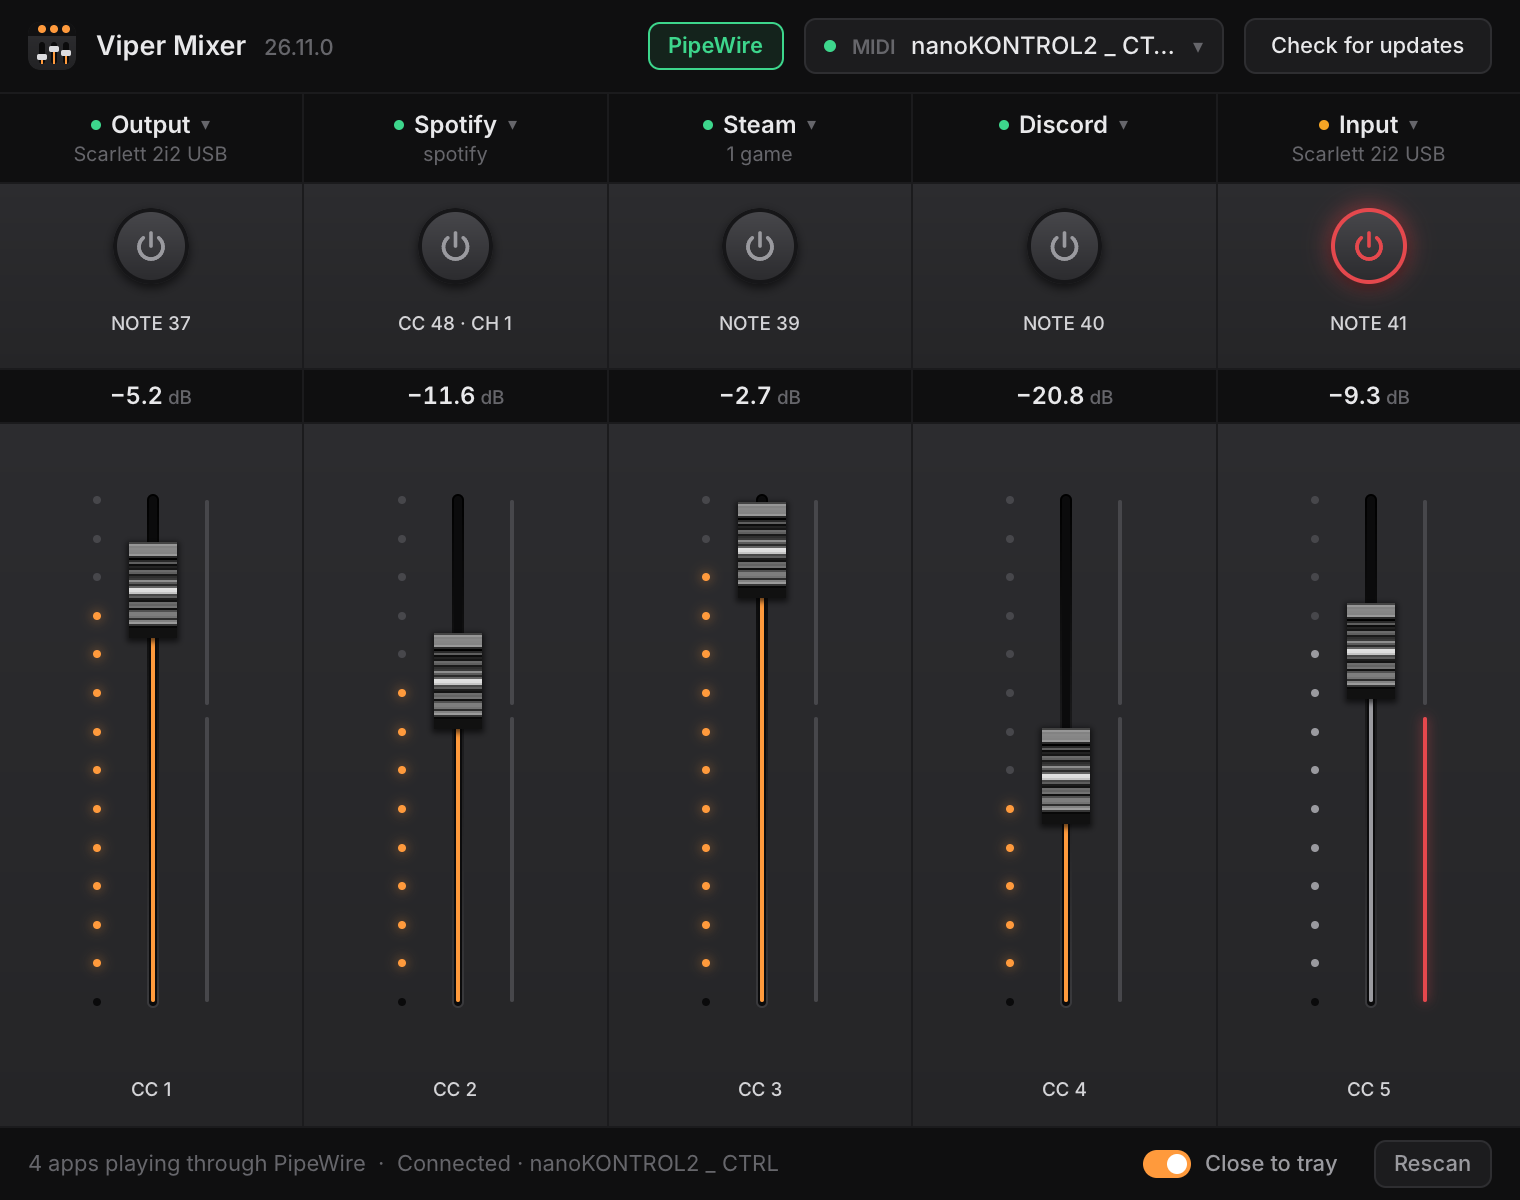
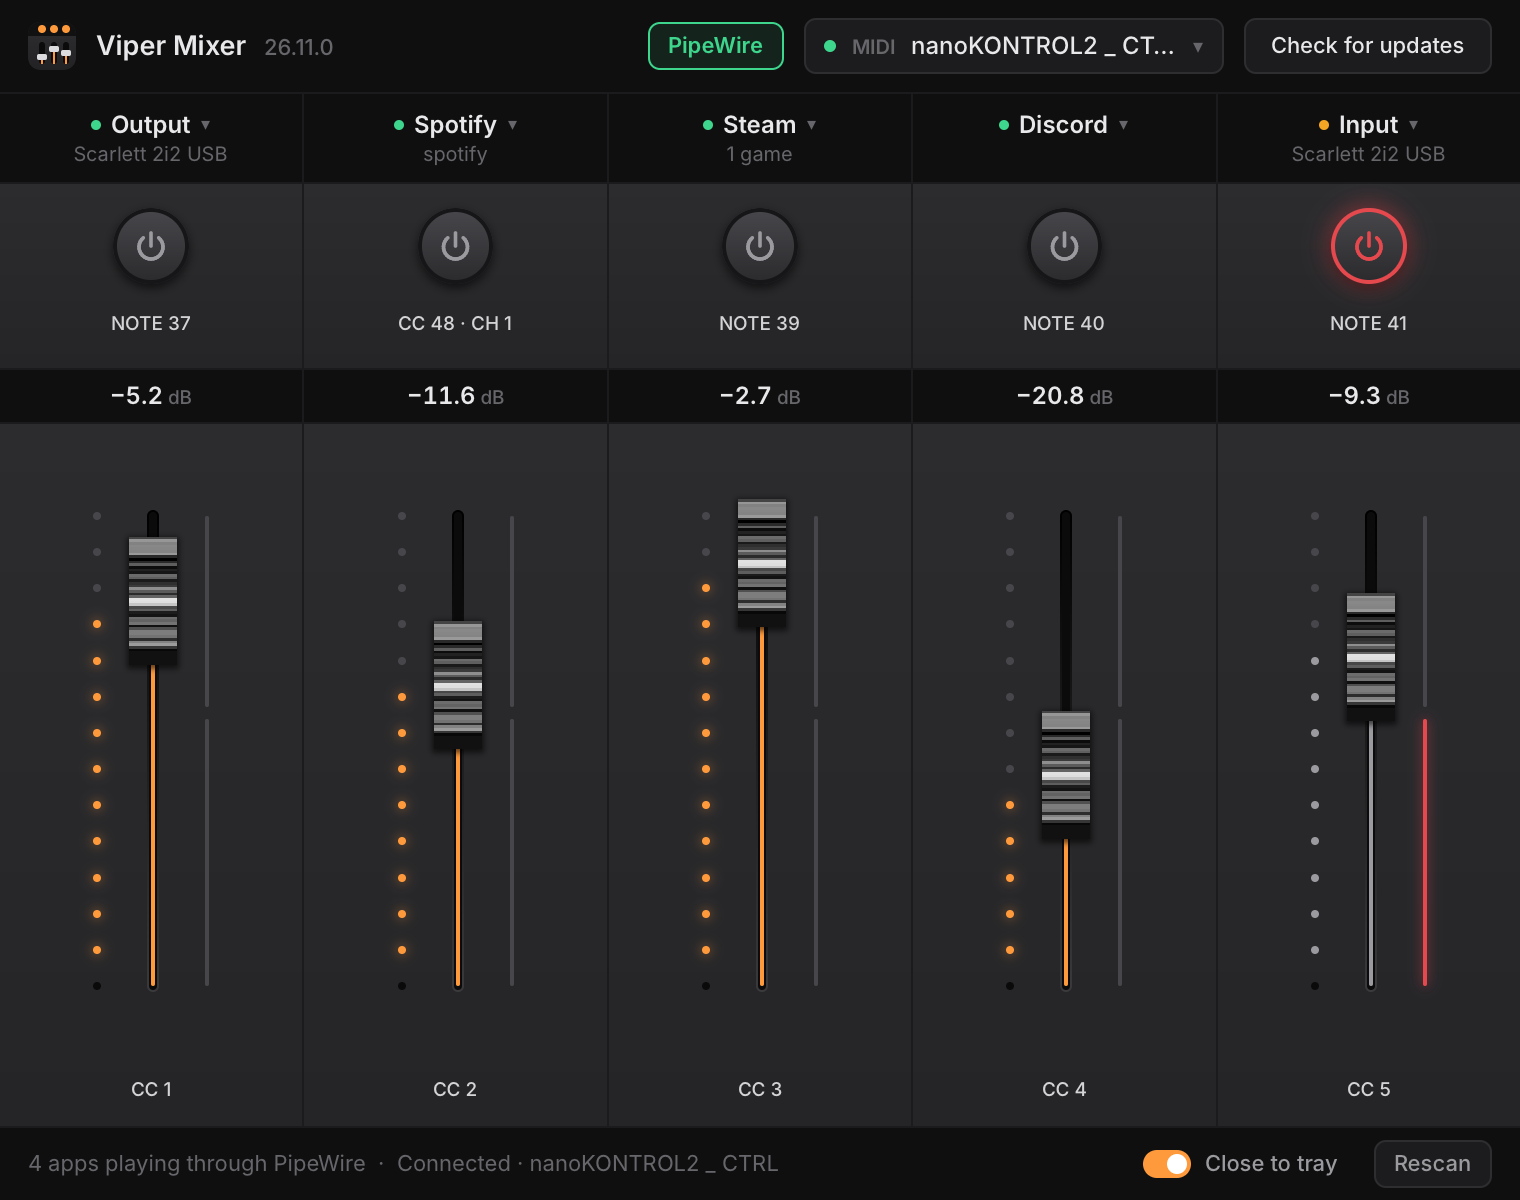
Lengthen the fader caps and light the fader line on drags too
Changelog: none

diff --git a/src/ui.rs b/src/ui.rs
@@ -18,7 +18,7 @@ use std::time::{Duration, Instant};
 /// Space above and below the fader's travel.
 const FADER_PAD: f32 = 4.0;
 const HANDLE_W: f32 = 24.0;
-const HANDLE_H: f32 = 48.0;
+const HANDLE_H: f32 = 64.0;
 const GROOVE_W: f32 = 6.0;
 /// The level lights beside the fader: their size, and roughly how far apart they sit.
 const LED: f32 = 4.0;
@@ -497,9 +497,9 @@ fn level_lights(volume: f32, height: f32, muted: bool) -> El {
     lights
 }
 
-/// A fader cap's rows from top to bottom, one pixel each, taken from the reference console: a
-/// lit top face, fine ribs either side of a white line across the middle, and a black bottom
-/// face. There are `HANDLE_H` of them.
+/// A fader cap's rows from top to bottom, taken pixel by pixel from the reference console's
+/// 48-pixel cap: a lit top face, fine ribs either side of a white line across the middle, and a
+/// black bottom face. They are stretched evenly to `HANDLE_H`.
 const CAP_ROWS: [&str; 48] = [
     "#444444", "#969696", "#828282", "#888888", "#868686", "#848484", "#999999", "#292929",
     "#000000", "#292929", "#5E5E5E", "#0C0C0C", "#222222", "#161616", "#6B6B6B", "#5F5F5F",
@@ -516,8 +516,9 @@ fn cap(y: f32) -> El {
         .size(HANDLE_W, HANDLE_H)
         .absolute(0.0, y - HANDLE_H / 2.0)
         .box_shadow(Shadow { x: 0.0, y: 1.0, blur: 3.0, spread: 1.0, color: Color::BLACK.alpha(0.6), inset: false });
+    let row_h = HANDLE_H / CAP_ROWS.len() as f32;
     for (row, color) in CAP_ROWS.iter().enumerate() {
-        cap = cap.child(el().size(HANDLE_W, 1.0).absolute(0.0, row as f32).fill(c(color)));
+        cap = cap.child(el().size(HANDLE_W, row_h).absolute(0.0, row as f32 * row_h).fill(c(color)));
     }
     cap
 }
@@ -899,9 +900,8 @@ mod tests {
     }
 
     #[test]
-    fn the_cap_rows_fill_the_cap_and_centre_its_line() {
-        assert_eq!(CAP_ROWS.len() as f32, HANDLE_H);
+    fn the_cap_line_crosses_the_middle() {
         let brightest = (0..CAP_ROWS.len()).max_by_key(|&row| CAP_ROWS[row]).unwrap();
-        assert!((brightest as f32 - HANDLE_H / 2.0).abs() <= 1.0);
+        assert!((brightest as f32 + 0.5 - CAP_ROWS.len() as f32 / 2.0).abs() <= 1.0);
     }
 }

diff --git a/src/mixer.rs b/src/mixer.rs
@@ -430,7 +430,10 @@ impl Mixer {
         }
     }
 
+    /// Sets a strip's level from the controller or the window, and lights the line beside its
+    /// fader either way.
     pub fn set_volume(&mut self, index: usize, volume: f32) {
+        self.touched_at[index] = Some(Instant::now());
         let volume = volume.clamp(0.0, 1.0);
         if self.config.fader_volumes[index] != volume {
             self.config.fader_volumes[index] = volume;
@@ -581,7 +584,6 @@ impl Mixer {
             if let Message::Cc { value, .. } = message
                 && self.config.fader_controls[index].is_some_and(|control| message.is(&control))
             {
-                self.touched_at[index] = Some(now);
                 self.set_volume(index, f32::from(value) / 127.0);
             }
             if self.config.mute_controls[index].is_some_and(|control| message.is(&control)) {
